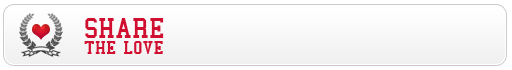
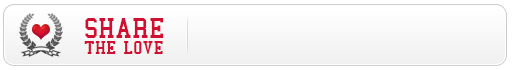
fix overlap to improve short posts

diff --git a/app/assets/stylesheets/main.css.scss b/app/assets/stylesheets/main.css.scss
@@ -865,7 +865,9 @@ footer {
   font-weight: bold;
 }
 .article-content {
+  z-index: 100;
   margin-left: 405px;
+  position: relative;
       p{ margin: 8px 0px;}
 }
 .article-caption {
@@ -1061,4 +1063,9 @@ h4 {
       height: 70px;
       padding-left: 15px;
     }
+}
+.overlap {
+  background: #fff;
+  border-radius: 10px;
+  padding-top: 1px;
 }
